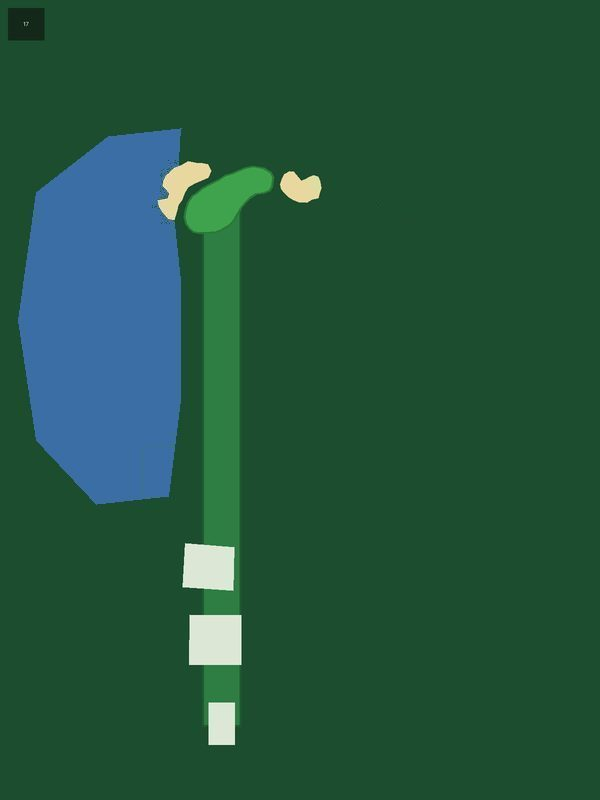
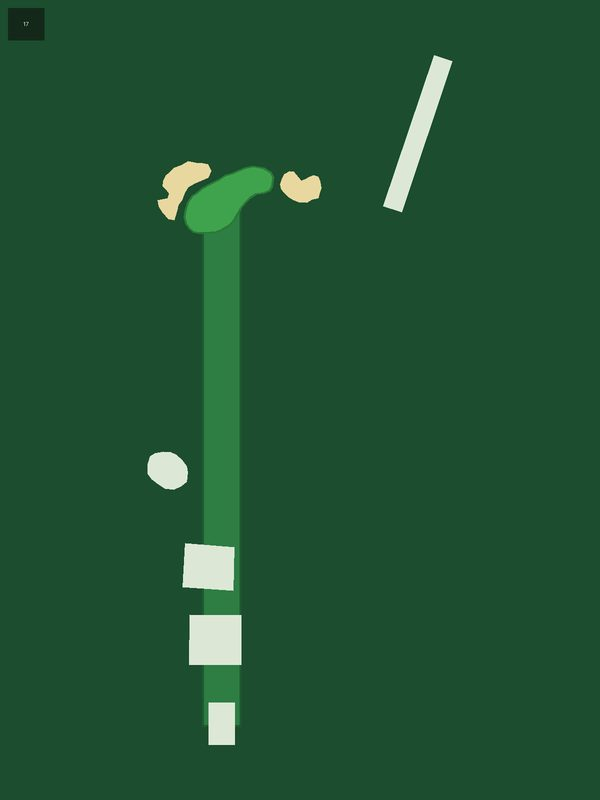
Medinah QA vs from-tee GPS shots: fix H2 (bad water polygon) + H17 (stale water), update H2 pin/tee; 16/18 holes clean

Changed region(s): [[0.03, 0.1562, 0.33, 0.6562], [0.63, 0.0625, 0.75, 0.2812]]

diff --git a/app/lib/widgets/hole_map_manifest.dart b/app/lib/widgets/hole_map_manifest.dart
@@ -173,7 +173,7 @@ const holeMapManifest = <String, Map<int, HoleMapAsset>>{
   },
   'Medinah Country Club': {
     1: HoleMapAsset(par: 4, map: 'assets/hole_maps/medinah-country-club/1.jpg', mask: 'assets/hole_maps/medinah-country-club/1_mask.png', tee: Offset(0.436, 0.835), pin: Offset(0.579, 0.160), source: 'osm'),
-    2: HoleMapAsset(par: 3, map: 'assets/hole_maps/medinah-country-club/2.jpg', mask: 'assets/hole_maps/medinah-country-club/2_mask.png', tee: Offset(0.412, 0.250), pin: Offset(0.412, 0.140), source: 'mixed'),
+    2: HoleMapAsset(par: 3, map: 'assets/hole_maps/medinah-country-club/2.jpg', mask: 'assets/hole_maps/medinah-country-club/2_mask.png', tee: Offset(0.471, 0.850), pin: Offset(0.471, 0.332), source: 'mixed'),
     3: HoleMapAsset(par: 4, map: 'assets/hole_maps/medinah-country-club/3.jpg', mask: 'assets/hole_maps/medinah-country-club/3_mask.png', tee: Offset(0.412, 0.924), pin: Offset(0.410, 0.170), source: 'osm'),
     4: HoleMapAsset(par: 4, map: 'assets/hole_maps/medinah-country-club/4.jpg', mask: 'assets/hole_maps/medinah-country-club/4_mask.png', tee: Offset(0.507, 0.845), pin: Offset(0.508, 0.124), source: 'osm'),
     5: HoleMapAsset(par: 5, map: 'assets/hole_maps/medinah-country-club/5.jpg', mask: 'assets/hole_maps/medinah-country-club/5_mask.png', tee: Offset(0.429, 0.920), pin: Offset(0.425, 0.091), source: 'osm'),
